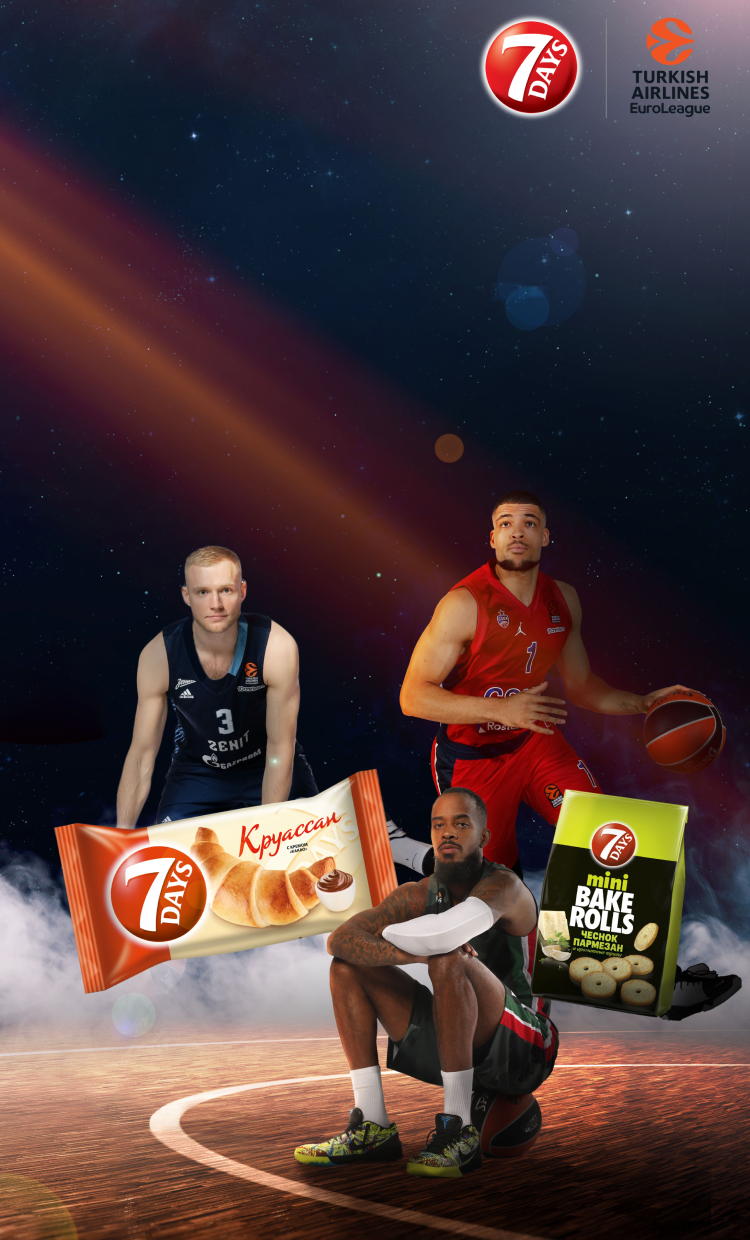
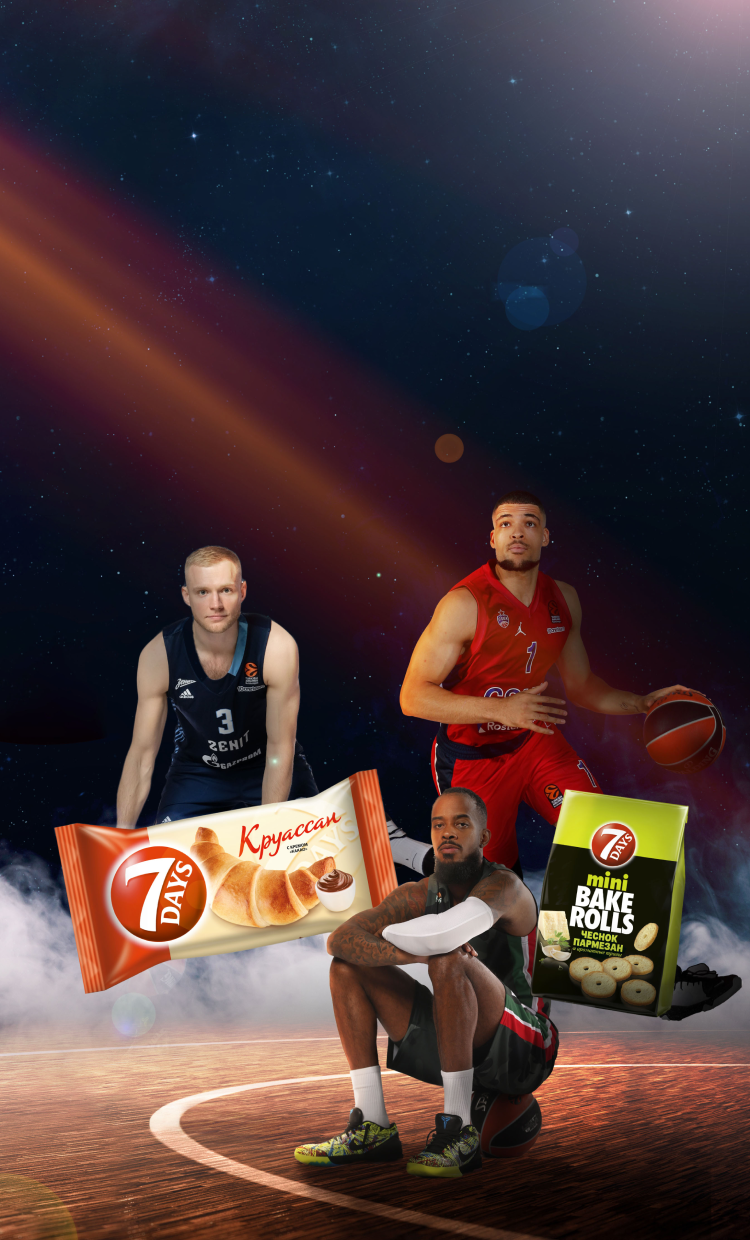
222

Changed region(s): [[0.644, 0.0, 0.7973, 0.1226], [0.828, 0.0, 0.9507, 0.0919]]

diff --git a/index.html b/index.html
@@ -40,6 +40,10 @@
                     </div>
                 </div>
             </div>
+            <div class="hero-logos">
+                <img class="hero-logos__item hero-logos__item-desk" src="images/hero-logos.png" alt="">
+                <img class="hero-logos__item hero-logos__item-m" src="images/hero-logos-m.png" alt="">
+            </div>
             <div class="widget widget-login">
                 <div class="widget__wrapper">
                     <div class="widget__header">
@@ -109,7 +113,7 @@
                                 </div>
                                 <div class="prize-all__item">
                                     <img src="images/prize-3.png" alt="">
-                                    <p>Набор продукции 7DAYS</p>
+                                    <p>Набор продукции <br> 7DAYS</p>
                                 </div>
                             </div>
                         </div>
@@ -310,18 +314,34 @@
                         <h4 class="shop-item__title">На сайтах:</h4>
                         <div class="shop-cell">
                             <ul class="shop-list">
-                                <li class="shop-list__item">Перекрёсток Впрок</li>
-                                <li class="shop-list__item">Карусель</li>
-                                <li class="shop-list__item">Лента</li>
-                                <li class="shop-list__item">Метро</li>
+                                <li class="shop-list__item">
+                                    <a class="shop-list__link" href="#">Перекрёсток Впрок</a>
+                                </li>
+                                <li class="shop-list__item">
+                                    <a class="shop-list__link" href="#">Карусель</a>
+                                </li>
+                                <li class="shop-list__item">
+                                    <a class="shop-list__link" href="#">Лента</a>
+                                </li>
+                                <li class="shop-list__item">
+                                    <a class="shop-list__link" href="#">Метро</a>
+                                </li>
                             </ul>
                         </div>
                         <div class="shop-cell">
                             <ul class="shop-list">
-                                <li class="shop-list__item">Ашан</li>
-                                <li class="shop-list__item">Сбермаркет</li>
-                                <li class="shop-list__item">Утконос</li>
-                                <li class="shop-list__item">Ozon</li>
+                                <li class="shop-list__item">
+                                    <a class="shop-list__link" href="#">Ашан</a>
+                                </li>
+                                <li class="shop-list__item">
+                                    <a class="shop-list__link" href="#">Сбермаркет</a>
+                                </li>
+                                <li class="shop-list__item">
+                                    <a class="shop-list__link" href="#">Утконос</a>
+                                </li>
+                                <li class="shop-list__item">
+                                    <a class="shop-list__link" href="#">Ozon</a>
+                                </li>
                             </ul>
                         </div>
                     </div>
@@ -330,10 +350,18 @@
                         <div class="shop-cell">
                         
                             <ul class="shop-list">
-                                <li class="shop-list__item">Пятёрочка</li>
-                                <li class="shop-list__item">Магнит</li>
-                                <li class="shop-list__item">Самокат</li>
-                                <li class="shop-list__item">Igoods</li>
+                                <li class="shop-list__item">
+                                    <a class="shop-list__link" href="#">Пятёрочка</a>
+                                </li>
+                                <li class="shop-list__item">
+                                    <a class="shop-list__link" href="#">Магнит</a>
+                                </li>
+                                <li class="shop-list__item">
+                                    <a class="shop-list__link" href="#">Самокат</a>
+                                </li>
+                                <li class="shop-list__item">
+                                    <a class="shop-list__link" href="#">Igoods</a>
+                                </li>
                             </ul>
                         </div>
                     </div>
@@ -360,7 +388,7 @@
                             </div>
                             <div class="winner-header__info-block">
                                 <div class="winner-search">
-                                    <input class="winner-search__item" type="text" placeholder="Поиск по e-mail">
+                                    <input class="winner-search__item" type="email" placeholder="Поиск по e-mail" autocomplete="true" name="email">
                                 </div>
                             </div>
                         </div>
@@ -577,12 +605,12 @@
                             </div>
                             <div class="feedback-form__content">
                                 <div class="form__item">
-                                    <input type="text" class="form__input" placeholder="Твое имя">
+                                    <input name="name" type="text" class="form__input" placeholder="Твое имя" autocomplete="true">
                                     <label for=""></label>
                                 </div>
                                 <div class="form__item">
                                     <label>
-                                        <input type="email" class="form__input" placeholder="Твой e-mail">
+                                        <input name="email" type="email" class="form__input" placeholder="Твой e-mail" autocomplete="true">
                                     </label>
                                 </div>
                                 <div class="form__item form__item_big">

diff --git a/css/style.css b/css/style.css
@@ -228,7 +228,7 @@ li {
 
 .hero {
   width: 100%;
-  background: url("../images/hero-bg.png") center center/cover no-repeat;
+  background: url("../images/hero-bg.jpg") center center/cover no-repeat;
   padding-top: 112px;
   padding-bottom: 510px;
 
@@ -251,11 +251,50 @@ li {
   transform: rotate(0.3deg) translateY(5px);
 }
 
+.hero-logos{
+  position: absolute;
+
+  left: 20px;
+  bottom: 40px;
+
+  width: 250px;
+  height: 115px;
+}
+
+.hero-logos__item{
+  width: 100%;
+  height: 100%;
+
+  object-fit: contain;
+}
+
+.hero-logos__item-m{
+  display: none;
+}
+
 @media (max-width: 495px) {
   .hero {
     background: url("../images/hero-bg-mob.png") center center/cover no-repeat;
     padding-top: 64px;
     padding-bottom: 388px;
+  }
+
+  .hero-logos{
+    width: 120px;
+    height: 60px;
+    top: 5px;
+    right: 15px;
+
+    bottom: unset;
+    left: unset;
+  }
+
+  .hero-logos__item-desk{
+    display: none;
+  }
+
+  .hero-logos__item-m{
+    display: block;
   }
 }
 
@@ -522,6 +561,8 @@ li {
 .prize-all__item p {
   font-size: 21px;
   line-height: 24px;
+
+  white-space: nowrap;
 }
 
 .prize-final {
@@ -728,6 +769,9 @@ li {
 
 .shop-list__item {
   margin-bottom: 24px;
+}
+
+.shop-list__link{
   font-size: 22px;
   line-height: 28px;
   text-decoration: underline;
@@ -737,7 +781,7 @@ li {
 }
 
 @media (max-width: 767px) {
-  .shop-list__item {
+  .shop-list__link {
     font-size: 16px;
     line-height: 1.2;
   }
@@ -994,6 +1038,11 @@ li {
     color:#71829B;
     font-size: 14px;
 
+  }
+
+  .rules__item-desc{
+    font-size: 16px;
+    max-width: 200px;
   }
 }
 
@@ -1301,6 +1350,10 @@ select {
 
 .feedback-form__footer{
   margin: 20px auto 0 auto;
+  width: 100%;
+  display: flex;
+  align-items: center;
+  justify-content: center;
 }
 
 .footer{
@@ -1568,6 +1621,7 @@ select {
 }
 
 .widget{
+  display: none;
   position: absolute;
   right: 30px;
   bottom: 20px;
